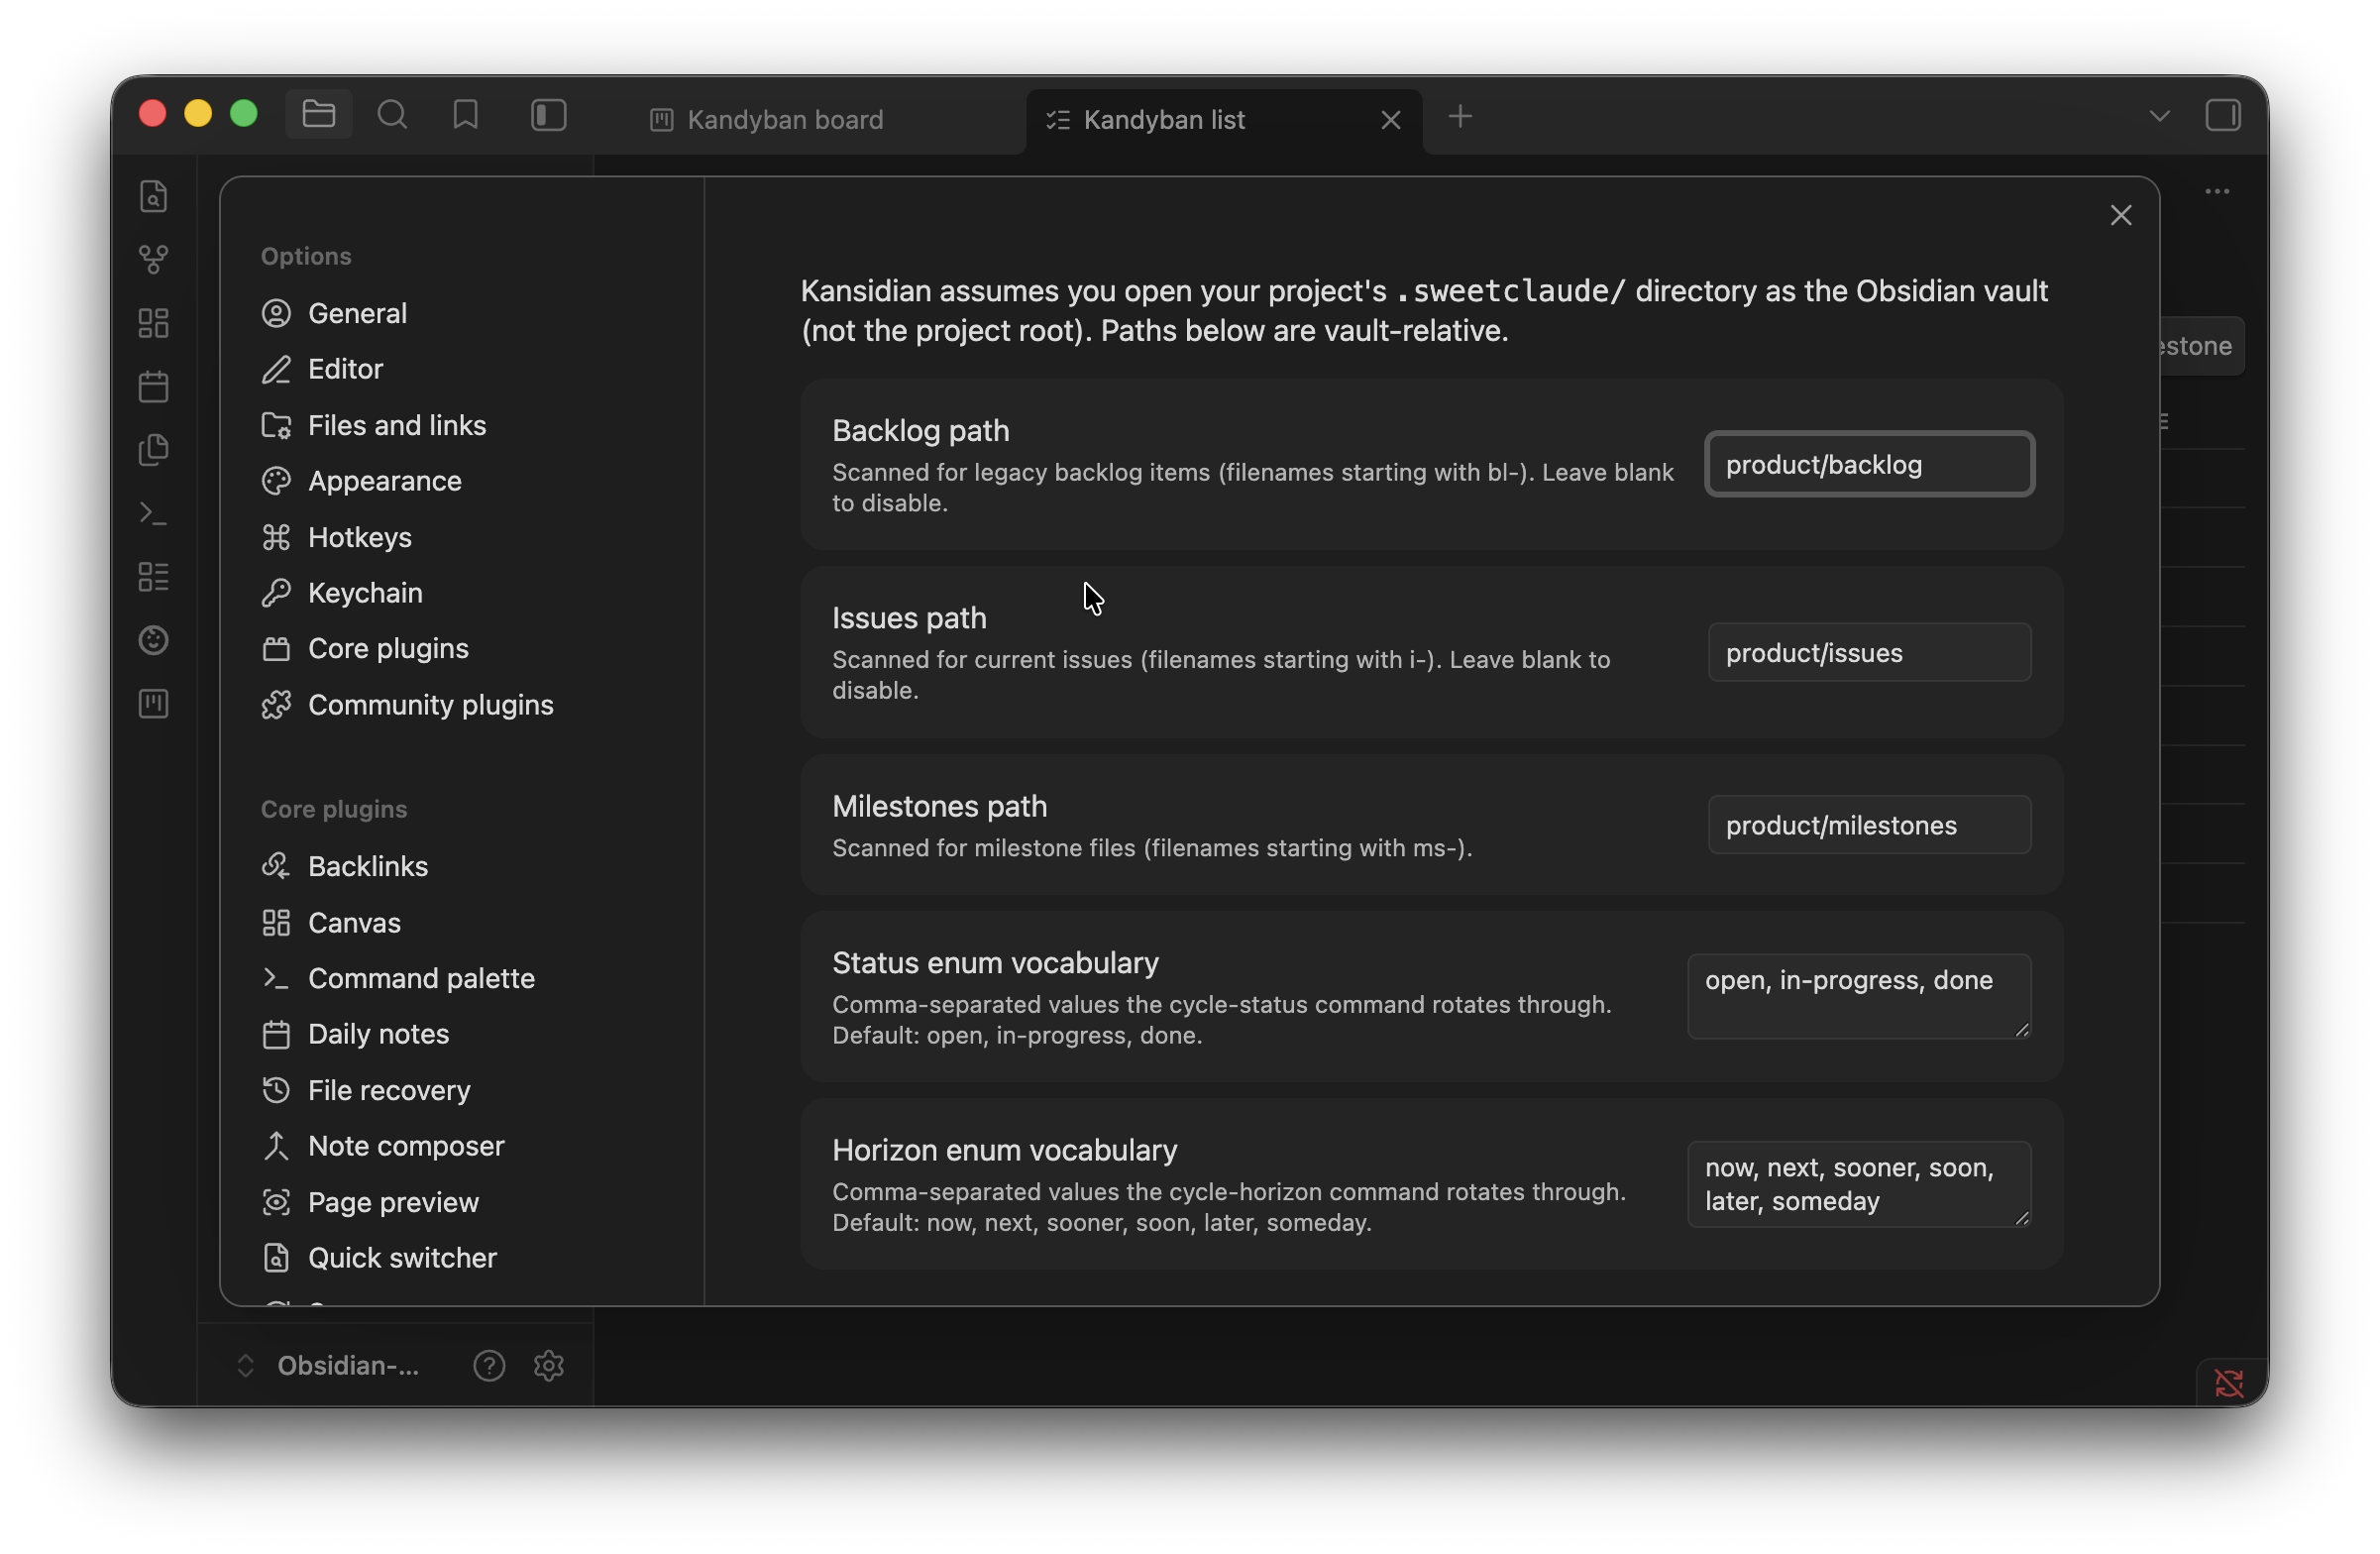
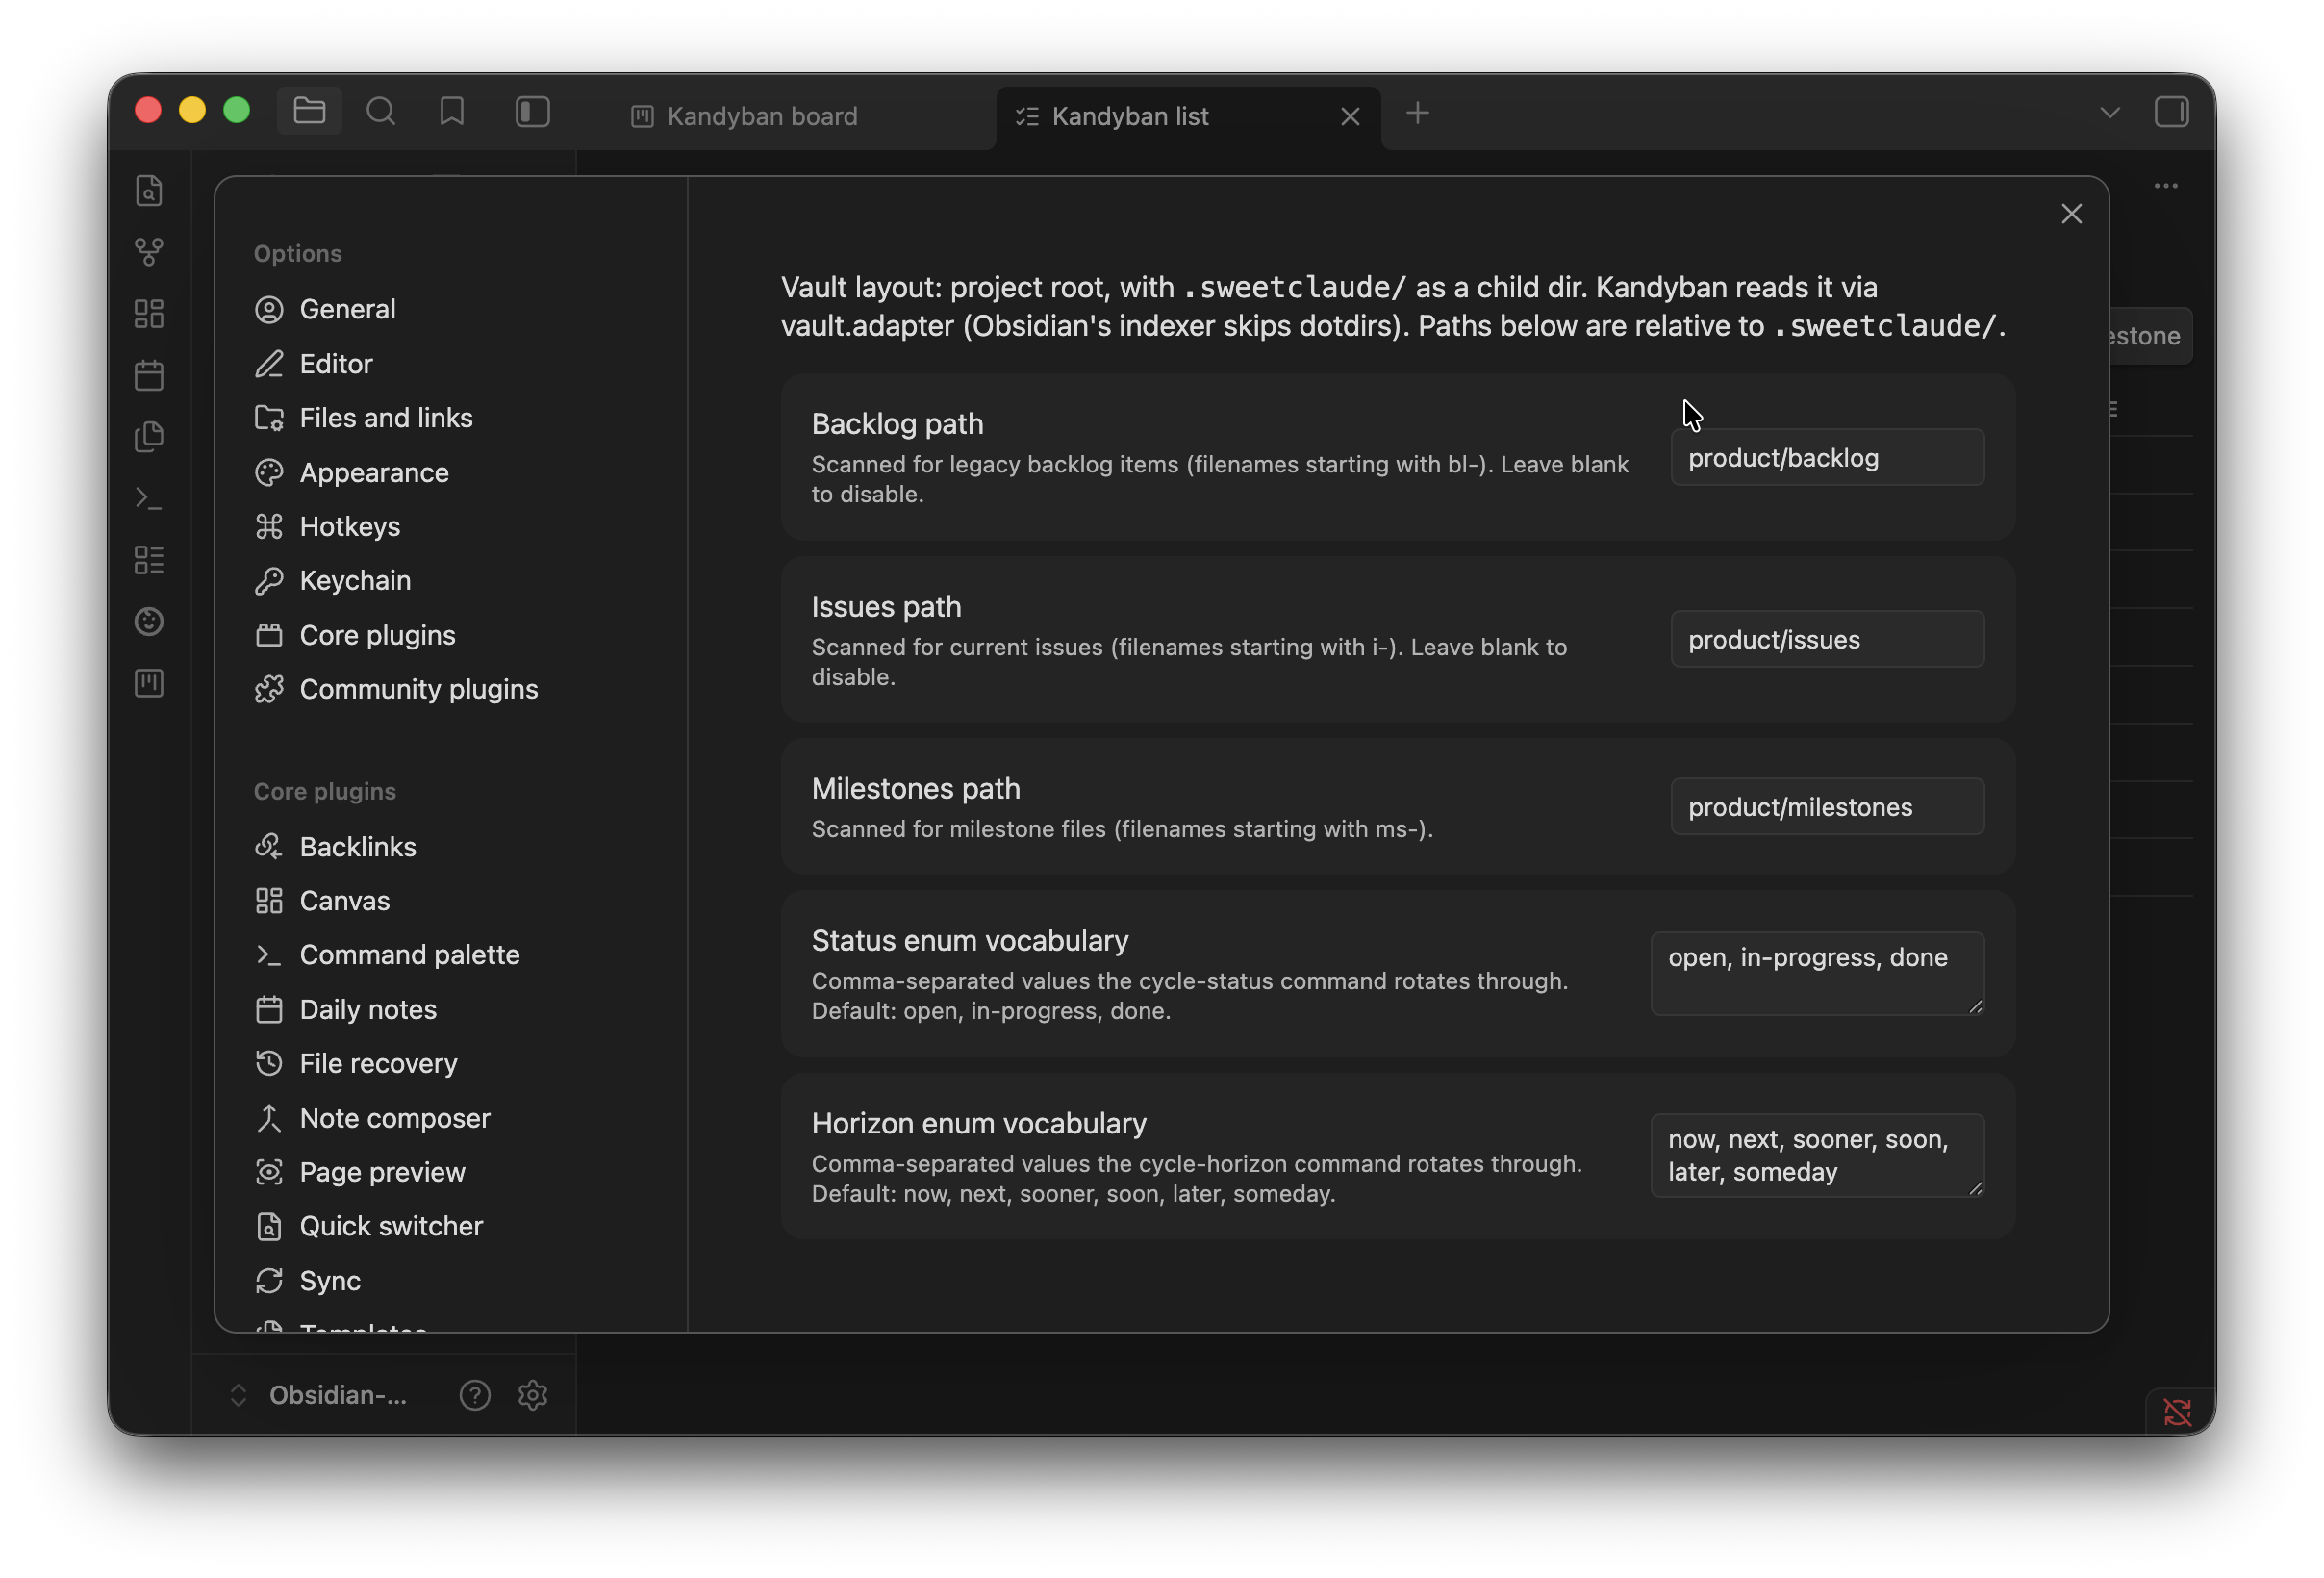
docs: tighten Roadmap section + refresh screenshots
- Drop the "Distribution readiness" bullet (already shipped + submitted).
- Drop the "Issue tracking lives in the maintainer's private workspace"
  trailer.
- Adjust manual-install list indentation to 2-space (consistent with
  surrounding nested list style).
- Updated board / list-picker / settings screenshots to reflect the
  current Kandyban UI.

diff --git a/README.md b/README.md
@@ -62,8 +62,8 @@ SweetClaude in Claude Code remains the primary working interface — Kandyban is
 
 1. Download `main.js`, `manifest.json`, and `styles.css` from the latest [GitHub release](https://github.com/dseaman/Kansidian/releases).
 2. Create the plugin folder inside whichever vault you'll use:
-   - Option A (project root as vault): `<your-project>/.obsidian/plugins/kandyban/`
-   - Option B (`.sweetclaude/` as vault): `<your-project>/.sweetclaude/.obsidian/plugins/kandyban/`
+  - Option A (project root as vault): `<your-project>/.obsidian/plugins/kandyban/`
+  - Option B (`.sweetclaude/` as vault): `<your-project>/.sweetclaude/.obsidian/plugins/kandyban/`
 3. Drop the three files into that folder.
 4. In Obsidian, enable Kandyban in **Community plugins**.
 
@@ -295,13 +295,10 @@ Then enable Kandyban in that vault and reload Obsidian (or toggle the plugin off
 
 ## Roadmap
 
-- **Distribution readiness** — community plugin store submission.
 - **Sprint-aware filtering** for agile mode.
 - **Epic / theme classification filters.**
 - **Pitch-board view** for Shape Up projects.
 - **Item creation from Obsidian** — pending a compatibility audit of `/sweetclaude:project-issues new`.
-
-Issue tracking lives in the maintainer's private workspace; expect roadmap items to surface here as releases land.
 
 ## Contributing
 